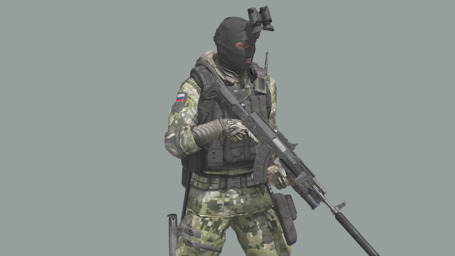
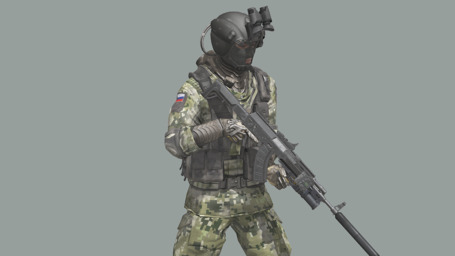
Reworked CSAT russian units loadouts

diff --git a/MU_RU/UnitsConfig.hpp b/MU_RU/UnitsConfig.hpp
@@ -8,7 +8,7 @@
 		vehicleClass = "MU_RU_O";
 		editorSubcategory = "MU_EdSubcat_Personnel_RU";
 		editorPreview="\A3\EditorPreviews_F\Data\CfgVehicles\Default\Man.jpg";
-		identityTypes[] = {"LanguagePER_F", "Head_Greek", "G_IRAN_default"};
+		identityTypes[] = {"LanguageRUS_F","Head_Russian","Head_Euro","Head_Enoch","Head_Asian","G_RUS_SF"};
 		icon = "iconMan";
 		role = "Rifleman";
 		cost = 100000;
@@ -17,16 +17,14 @@
 		camouflage = 0.6;
 		nakedUniform = "U_BasicBody";
 		uniformClass = "U_MU_O_CombatUniform_RUcamo";
-		hiddenSelections[] = {"Camo1","Camo2"};
-		hiddenSelectionsTextures[] = {"\A3\Characters_F\OPFOR\Data\clothing_rus_co.paa","\A3\Characters_F\OPFOR\Data\tech_CO.paa"};
 	};
 	class O_MU_RUSP_R_F : O_MU_RUSP_base_F
 	{
 		scope = 2;
 		scopeCurator = 2;
 		displayName = "$STR_A3_CfgVehicles_B_Soldier_F0";
-		linkedItems[] = {"V_PlateCarrier2_blk", "G_Balaclava_blk", "NVGoggles_OPFOR", "ItemMap", "ItemCompass", "ItemWatch", "ItemRadio"};
-		respawnLinkedItems[] = {"V_PlateCarrier2_blk", "G_Balaclava_blk", "NVGoggles_OPFOR", "ItemMap", "ItemCompass", "ItemWatch", "ItemRadio"};
+		linkedItems[] = {"V_MU_HarnessO_blk", "H_MU_HelmetO_blk", "G_Balaclava_blk", "NVGoggles_OPFOR", "ItemMap", "ItemCompass", "ItemWatch", "ItemRadio"};
+		respawnLinkedItems[] = {"V_MU_HarnessO_blk", "H_MU_HelmetO_blk", "G_Balaclava_blk", "NVGoggles_OPFOR", "ItemMap", "ItemCompass", "ItemWatch", "ItemRadio"};
 		weapons[] = {"arifle_AK12_ACO_pointer_snds_MU", "hgun_Rook40_snds_F", "Throw", "Put"};
 		respawnweapons[] = {"arifle_AK12_ACO_pointer_snds_MU", "hgun_Rook40_snds_F", "Throw", "Put"};
 		magazines[] = {"30Rnd_762x39_AK12_Mag_F", "30Rnd_762x39_AK12_Mag_F", "30Rnd_762x39_AK12_Mag_F", "30Rnd_762x39_AK12_Mag_F", "30Rnd_762x39_AK12_Mag_F", "30Rnd_762x39_AK12_Mag_F", "30Rnd_762x39_AK12_Mag_F", "30Rnd_762x39_AK12_Mag_F", "30Rnd_762x39_AK12_Mag_F", "16Rnd_9x21_Mag", "16Rnd_9x21_Mag", "16Rnd_9x21_Mag", "HandGrenade", "HandGrenade", "SmokeShell", "SmokeShellRed", "Chemlight_red", "Chemlight_red"};
@@ -38,8 +36,8 @@
 		scope = 2;
 		scopeCurator = 2;
 		displayName = $STR_MU_units_RUSP_RN;
-		linkedItems[] = {"V_PlateCarrier2_blk", "G_Balaclava_blk", "NVGoggles_OPFOR", "ItemMap", "ItemCompass", "ItemWatch", "ItemRadio"};
-		respawnLinkedItems[] = {"V_PlateCarrier2_blk", "G_Balaclava_blk", "NVGoggles_OPFOR", "ItemMap", "ItemCompass", "ItemWatch", "ItemRadio"};
+		linkedItems[] = {"V_MU_HarnessO_blk", "G_Balaclava_blk", "NVGoggles_OPFOR", "ItemMap", "ItemCompass", "ItemWatch", "ItemRadio"};
+		respawnLinkedItems[] = {"V_MU_HarnessO_blk", "G_Balaclava_blk", "NVGoggles_OPFOR", "ItemMap", "ItemCompass", "ItemWatch", "ItemRadio"};
 		weapons[] = {"arifle_AK12_Nstalker_pointer_snds_MU", "hgun_Rook40_snds_F", "Throw", "Put"};
 		respawnweapons[] = {"arifle_AK12_Nstalker_pointer_snds_MU", "hgun_Rook40_snds_F", "Throw", "Put"};
 		magazines[] = {"30Rnd_762x39_AK12_Mag_F", "30Rnd_762x39_AK12_Mag_F", "30Rnd_762x39_AK12_Mag_F", "30Rnd_762x39_AK12_Mag_F", "30Rnd_762x39_AK12_Mag_F", "30Rnd_762x39_AK12_Mag_F", "30Rnd_762x39_AK12_Mag_F", "30Rnd_762x39_AK12_Mag_F", "30Rnd_762x39_AK12_Mag_F", "16Rnd_9x21_Mag", "16Rnd_9x21_Mag", "16Rnd_9x21_Mag", "HandGrenade", "HandGrenade", "SmokeShell", "SmokeShellRed", "Chemlight_red", "Chemlight_red"};
@@ -53,8 +51,8 @@
 		displayName = "$STR_B_Soldier_TL_F0";
 		icon = "iconManLeader";
 		cost = 250000;
-		linkedItems[] = {"V_PlateCarrier2_blk", "G_Bandanna_blk", "H_Watchcap_blk", "NVGoggles_OPFOR", "ItemGPS", "ItemMap", "ItemCompass", "ItemWatch", "ItemRadio"};
-		respawnLinkedItems[] = {"V_PlateCarrier2_blk", "G_Bandanna_blk", "H_Watchcap_blk", "NVGoggles_OPFOR", "ItemGPS", "ItemMap", "ItemCompass", "ItemWatch", "ItemRadio"};
+		linkedItems[] = {"V_MU_HarnessO_blk", "G_Bandanna_blk", "H_Watchcap_blk", "NVGoggles_OPFOR", "ItemGPS", "ItemMap", "ItemCompass", "ItemWatch", "ItemRadio"};
+		respawnLinkedItems[] = {"V_MU_HarnessO_blk", "G_Bandanna_blk", "H_Watchcap_blk", "NVGoggles_OPFOR", "ItemGPS", "ItemMap", "ItemCompass", "ItemWatch", "ItemRadio"};
 		weapons[] = {"arifle_AK12_ARCO_pointer_snds_MU", "RangeFinder", "hgun_Rook40_snds_F", "Throw", "Put"};
 		respawnweapons[] = {"arifle_AK12_ARCO_pointer_snds_MU", "RangeFinder", "hgun_Rook40_snds_F", "Throw", "Put"};
 		magazines[] = {"30Rnd_762x39_AK12_Mag_F", "30Rnd_762x39_AK12_Mag_F", "30Rnd_762x39_AK12_Mag_F", "30Rnd_762x39_AK12_Mag_F", "30Rnd_762x39_AK12_Mag_F", "30Rnd_762x39_AK12_Mag_F", "30Rnd_762x39_AK12_Mag_F", "30Rnd_762x39_AK12_Mag_F", "30Rnd_762x39_AK12_Mag_F", "16Rnd_9x21_Mag", "16Rnd_9x21_Mag", "16Rnd_9x21_Mag", "HandGrenade", "SmokeShell", "SmokeShellRed", "SmokeShellBlue", "Chemlight_red", "Chemlight_red"};
@@ -68,13 +66,12 @@
 		displayName = "$STR_B_Soldier_GL_F0";
 		role = "Grenadier";
 		cost = 200000;
-		backpack = "B_MU_RUSP_TacticalPack_blk_GL";
-		linkedItems[] = {"V_PlateCarrier2_blk", "G_Balaclava_blk", "NVGoggles_OPFOR", "ItemMap", "ItemCompass", "ItemWatch", "ItemRadio"};
-		respawnLinkedItems[] = {"V_PlateCarrier2_blk", "G_Balaclava_blk", "NVGoggles_OPFOR", "ItemMap", "ItemCompass", "ItemWatch", "ItemRadio"};
+		linkedItems[] = {"V_MU_HarnessO_blk", "H_MU_HelmetO_blk", "G_Balaclava_blk", "NVGoggles_OPFOR", "ItemMap", "ItemCompass", "ItemWatch", "ItemRadio"};
+		respawnLinkedItems[] = {"V_MU_HarnessO_blk", "H_MU_HelmetO_blk", "G_Balaclava_blk", "NVGoggles_OPFOR", "ItemMap", "ItemCompass", "ItemWatch", "ItemRadio"};
 		weapons[] = {"arifle_AK12_GL_ACO_pointer_snds_MU", "hgun_Rook40_snds_F", "Throw", "Put"};
 		respawnweapons[] = {"arifle_AK12_GL_ACO_pointer_snds_MU", "hgun_Rook40_snds_F", "Throw", "Put"};
-		magazines[] = {"30Rnd_762x39_AK12_Mag_F", "30Rnd_762x39_AK12_Mag_F", "30Rnd_762x39_AK12_Mag_F", "30Rnd_762x39_AK12_Mag_F", "30Rnd_762x39_AK12_Mag_F", "30Rnd_762x39_AK12_Mag_F", "30Rnd_762x39_AK12_Mag_F", "1Rnd_HE_Grenade_shell", "1Rnd_HE_Grenade_shell", "1Rnd_HE_Grenade_shell", "1Rnd_HE_Grenade_shell", "1Rnd_HE_Grenade_shell", "1Rnd_HE_Grenade_shell", "16Rnd_9x21_Mag", "16Rnd_9x21_Mag", "16Rnd_9x21_Mag", "HandGrenade", "HandGrenade", "SmokeShell", "SmokeShellRed", "Chemlight_red"};
-		Respawnmagazines[] = {"30Rnd_762x39_AK12_Mag_F", "30Rnd_762x39_AK12_Mag_F", "30Rnd_762x39_AK12_Mag_F", "30Rnd_762x39_AK12_Mag_F", "30Rnd_762x39_AK12_Mag_F", "30Rnd_762x39_AK12_Mag_F", "30Rnd_762x39_AK12_Mag_F", "1Rnd_HE_Grenade_shell", "1Rnd_HE_Grenade_shell", "1Rnd_HE_Grenade_shell", "1Rnd_HE_Grenade_shell", "1Rnd_HE_Grenade_shell", "1Rnd_HE_Grenade_shell", "16Rnd_9x21_Mag", "16Rnd_9x21_Mag", "16Rnd_9x21_Mag", "HandGrenade", "HandGrenade", "SmokeShell", "SmokeShellRed", "Chemlight_red"};
+		magazines[] = {"30Rnd_762x39_AK12_Mag_F", "30Rnd_762x39_AK12_Mag_F", "30Rnd_762x39_AK12_Mag_F", "30Rnd_762x39_AK12_Mag_F", "30Rnd_762x39_AK12_Mag_F", "30Rnd_762x39_AK12_Mag_F", "30Rnd_762x39_AK12_Mag_F", "30Rnd_762x39_AK12_Mag_F", "1Rnd_HE_Grenade_shell", "1Rnd_HE_Grenade_shell", "1Rnd_HE_Grenade_shell", "1Rnd_HE_Grenade_shell", "1Rnd_HE_Grenade_shell", "1Rnd_HE_Grenade_shell", "1Rnd_HE_Grenade_shell", "1Rnd_HE_Grenade_shell", "1Rnd_HE_Grenade_shell", "1Rnd_HE_Grenade_shell", "UGL_FlareRed_F", "UGL_FlareRed_F", "UGL_FlareCIR_F", "UGL_FlareCIR_F", "1Rnd_SmokePurple_Grenade_shell", "1Rnd_SmokePurple_Grenade_shell", "1Rnd_SmokeRed_Grenade_shell", "1Rnd_SmokeRed_Grenade_shell", "16Rnd_9x21_Mag", "16Rnd_9x21_Mag", "16Rnd_9x21_Mag", "HandGrenade", "HandGrenade", "SmokeShell", "SmokeShellRed", "Chemlight_red"};
+		Respawnmagazines[] = {"30Rnd_762x39_AK12_Mag_F", "30Rnd_762x39_AK12_Mag_F", "30Rnd_762x39_AK12_Mag_F", "30Rnd_762x39_AK12_Mag_F", "30Rnd_762x39_AK12_Mag_F", "30Rnd_762x39_AK12_Mag_F", "30Rnd_762x39_AK12_Mag_F", "30Rnd_762x39_AK12_Mag_F", "1Rnd_HE_Grenade_shell", "1Rnd_HE_Grenade_shell", "1Rnd_HE_Grenade_shell", "1Rnd_HE_Grenade_shell", "1Rnd_HE_Grenade_shell", "1Rnd_HE_Grenade_shell", "1Rnd_HE_Grenade_shell", "1Rnd_HE_Grenade_shell", "1Rnd_HE_Grenade_shell", "1Rnd_HE_Grenade_shell", "UGL_FlareRed_F", "UGL_FlareRed_F", "UGL_FlareCIR_F", "UGL_FlareCIR_F", "1Rnd_SmokePurple_Grenade_shell", "1Rnd_SmokePurple_Grenade_shell", "1Rnd_SmokeRed_Grenade_shell", "1Rnd_SmokeRed_Grenade_shell", "16Rnd_9x21_Mag", "16Rnd_9x21_Mag", "16Rnd_9x21_Mag", "HandGrenade", "HandGrenade", "SmokeShell", "SmokeShellRed", "Chemlight_red"};
 		MU_PREVIEW(O_MU_RUSP_GL_F);
 	};
 	class O_MU_RUSP_medic_F : O_MU_RUSP_base_F
@@ -87,8 +84,8 @@
 		picture = "pictureHeal";
 		attendant = 1;
 		backpack = "B_MU_RUSP_TacticalPack_blk_medic";
-		linkedItems[] = {"V_PlateCarrier2_blk", "H_HelmetSpecO_blk", "G_Balaclava_blk", "NVGoggles_OPFOR", "ItemMap", "ItemCompass", "ItemWatch", "ItemRadio"};
-		respawnLinkedItems[] = {"V_PlateCarrier2_blk", "H_HelmetSpecO_blk", "G_Balaclava_blk", "NVGoggles_OPFOR", "ItemMap", "ItemCompass", "ItemWatch", "ItemRadio"};
+		linkedItems[] = {"V_Chestrig_blk", "H_HelmetSpecO_blk", "G_Balaclava_blk", "NVGoggles_OPFOR", "ItemMap", "ItemCompass", "ItemWatch", "ItemRadio"};
+		respawnLinkedItems[] = {"V_Chestrig_blk", "H_HelmetSpecO_blk", "G_Balaclava_blk", "NVGoggles_OPFOR", "ItemMap", "ItemCompass", "ItemWatch", "ItemRadio"};
 		weapons[] = {"arifle_AK12_ACO_pointer_snds_MU", "hgun_Rook40_snds_F", "Throw", "Put"};
 		respawnweapons[] = {"arifle_AK12_ACO_pointer_snds_MU", "hgun_Rook40_snds_F", "Throw", "Put"};
 		magazines[] = {"30Rnd_762x39_AK12_Mag_F", "30Rnd_762x39_AK12_Mag_F", "30Rnd_762x39_AK12_Mag_F", "30Rnd_762x39_AK12_Mag_F", "30Rnd_762x39_AK12_Mag_F", "30Rnd_762x39_AK12_Mag_F", "30Rnd_762x39_AK12_Mag_F", "16Rnd_9x21_Mag", "16Rnd_9x21_Mag", "16Rnd_9x21_Mag", "HandGrenade", "SmokeShell", "SmokeShell", "SmokeShellRed", "Chemlight_red", "Chemlight_red"};
@@ -107,8 +104,8 @@
 		engineer = 1;
 		detectSkill = 31;
 		backpack = "B_MU_RUSP_TacticalPack_blk_eng";
-		linkedItems[] = {"V_PlateCarrier2_blk", "H_Bandanna_khk_hs", "NVGoggles_OPFOR", "ItemMap", "ItemCompass", "ItemWatch", "ItemRadio"};
-		respawnLinkedItems[] = {"V_PlateCarrier2_blk", "H_Bandanna_khk_hs", "NVGoggles_OPFOR", "ItemMap", "ItemCompass", "ItemWatch", "ItemRadio"};
+		linkedItems[] = {"V_Chestrig_rgr", "H_Bandanna_khk_hs", "NVGoggles_OPFOR", "ItemMap", "ItemCompass", "ItemWatch", "ItemRadio"};
+		respawnLinkedItems[] = {"V_Chestrig_rgr", "H_Bandanna_khk_hs", "NVGoggles_OPFOR", "ItemMap", "ItemCompass", "ItemWatch", "ItemRadio"};
 		weapons[] = {"arifle_AK12_ACO_pointer_snds_MU", "hgun_Rook40_snds_F", "Throw", "Put"};
 		respawnweapons[] = {"arifle_AK12_ACO_pointer_snds_MU", "hgun_Rook40_snds_F", "Throw", "Put"};
 		magazines[] = {"30Rnd_762x39_AK12_Mag_F","30Rnd_762x39_AK12_Mag_F","30Rnd_762x39_AK12_Mag_F","30Rnd_762x39_AK12_Mag_F","30Rnd_762x39_AK12_Mag_F","30Rnd_762x39_AK12_Mag_F","30Rnd_762x39_AK12_Mag_F", "30Rnd_9x21_Mag", "16Rnd_9x21_Mag", "16Rnd_9x21_Mag", "16Rnd_9x21_Mag", "HandGrenade", "HandGrenade", "SmokeShell", "SmokeShellRed", "Chemlight_red", "Chemlight_red"};
@@ -126,8 +123,8 @@
 		primaryAmmoCoef = 0.2;
 		secondaryAmmoCoef = 0.05;
 		handgunAmmoCoef = 0.1;
-		linkedItems[] = {"V_Chestrig_blk", "G_Balaclava_blk", "NVGoggles_OPFOR", "ItemGPS", "ItemMap", "ItemCompass", "ItemWatch", "ItemRadio"};
-		respawnLinkedItems[] = {"V_Chestrig_blk", "G_Balaclava_blk", "NVGoggles_OPFOR", "ItemGPS", "ItemMap", "ItemCompass", "ItemWatch", "ItemRadio"};
+		linkedItems[] = {"V_MU_HarnessO_blk", "G_Balaclava_blk", "NVGoggles_OPFOR", "ItemGPS", "ItemMap", "ItemCompass", "ItemWatch", "ItemRadio"};
+		respawnLinkedItems[] = {"V_MU_HarnessO_blk", "G_Balaclava_blk", "NVGoggles_OPFOR", "ItemGPS", "ItemMap", "ItemCompass", "ItemWatch", "ItemRadio"};
 		weapons[] = {"srifle_GM6_DMS_MU_F", "RangeFinder", "hgun_Rook40_snds_F", "Throw", "Put"};
 		respawnweapons[] = {"srifle_GM6_DMS_MU_F", "RangeFinder", "hgun_Rook40_snds_F", "Throw", "Put"};
 		magazines[] = {"5Rnd_127x108_Mag", "5Rnd_127x108_Mag", "5Rnd_127x108_Mag", "5Rnd_127x108_Mag", "5Rnd_127x108_Mag", "5Rnd_127x108_APDS_Mag", "5Rnd_127x108_APDS_Mag", "16Rnd_9x21_Mag", "16Rnd_9x21_Mag", "16Rnd_9x21_Mag", "SmokeShell", "SmokeShellRed", "Chemlight_red"};
@@ -149,8 +146,8 @@
 		respawnLinkedItems[] = {"V_Chestrig_rgr", "G_Balaclava_blk", "NVGoggles_OPFOR", "ItemMap", "ItemCompass", "ItemWatch", "ItemRadio"};
 		weapons[] = {"arifle_AK12_ACO_pointer_snds_MU", "launch_O_Vorona_green_F", "hgun_Rook40_snds_F", "Throw", "Put"};
 		respawnweapons[] = {"arifle_AK12_ACO_pointer_snds_MU", "launch_O_Vorona_green_F", "hgun_Rook40_snds_F", "Throw", "Put"};
-		magazines[] = {"30Rnd_762x39_AK12_Mag_F", "30Rnd_762x39_AK12_Mag_F", "30Rnd_762x39_AK12_Mag_F", "30Rnd_762x39_AK12_Mag_F", "30Rnd_762x39_AK12_Mag_F", "Vorona_HEAT", "16Rnd_9x21_Mag", "16Rnd_9x21_Mag", "16Rnd_9x21_Mag", "HandGrenade", "HandGrenade", "SmokeShell", "SmokeShellRed", "Chemlight_red", "Chemlight_red"};
-		Respawnmagazines[] = {"30Rnd_762x39_AK12_Mag_F", "30Rnd_762x39_AK12_Mag_F", "30Rnd_762x39_AK12_Mag_F", "30Rnd_762x39_AK12_Mag_F", "30Rnd_762x39_AK12_Mag_F", "Vorona_HEAT", "16Rnd_9x21_Mag", "16Rnd_9x21_Mag", "16Rnd_9x21_Mag", "HandGrenade", "HandGrenade", "SmokeShell", "SmokeShellRed", "Chemlight_red", "Chemlight_red"};
+		magazines[] = {"30Rnd_762x39_AK12_Mag_F", "30Rnd_762x39_AK12_Mag_F", "30Rnd_762x39_AK12_Mag_F", "30Rnd_762x39_AK12_Mag_F", "30Rnd_762x39_AK12_Mag_F", "Vorona_HEAT", "16Rnd_9x21_Mag", "16Rnd_9x21_Mag", "16Rnd_9x21_Mag", "HandGrenade", "SmokeShell", "SmokeShellRed", "Chemlight_red", "Chemlight_red"};
+		Respawnmagazines[] = {"30Rnd_762x39_AK12_Mag_F", "30Rnd_762x39_AK12_Mag_F", "30Rnd_762x39_AK12_Mag_F", "30Rnd_762x39_AK12_Mag_F", "30Rnd_762x39_AK12_Mag_F", "Vorona_HEAT", "16Rnd_9x21_Mag", "16Rnd_9x21_Mag", "16Rnd_9x21_Mag", "HandGrenade", "SmokeShell", "SmokeShellRed", "Chemlight_red", "Chemlight_red"};
 		MU_PREVIEW(O_MU_RUSP_AT_F);
 	};
 	class O_MU_RUSP_AR_F : O_MU_RUSP_base_F
@@ -161,8 +158,8 @@
 		icon = "iconManMG";
 		role = "MachineGunner";
 		cost = 220000;
-		linkedItems[] = {"V_PlateCarrier2_blk", "H_HelmetSpecO_blk", "G_Balaclava_blk", "NVGoggles_OPFOR", "ItemMap", "ItemCompass", "ItemWatch", "ItemRadio"};
-		respawnLinkedItems[] = {"V_PlateCarrier2_blk", "H_HelmetSpecO_blk", "G_Balaclava_blk", "NVGoggles_OPFOR", "ItemMap", "ItemCompass", "ItemWatch", "ItemRadio"};
+		linkedItems[] = {"V_MU_HarnessO_blk", "H_HelmetSpecO_blk", "G_Balaclava_blk", "NVGoggles_OPFOR", "ItemMap", "ItemCompass", "ItemWatch", "ItemRadio"};
+		respawnLinkedItems[] = {"V_MU_HarnessO_blk", "H_HelmetSpecO_blk", "G_Balaclava_blk", "NVGoggles_OPFOR", "ItemMap", "ItemCompass", "ItemWatch", "ItemRadio"};
 		weapons[] = {"arifle_RPK12_ARCO_pointer_snds_MU", "hgun_Rook40_snds_F", "Throw", "Put"};
 		respawnweapons[] = {"arifle_RPK12_ARCO_pointer_snds_MU", "hgun_Rook40_snds_F", "Throw", "Put"};
 		magazines[] = {"75rnd_762x39_AK12_Mag_F","75rnd_762x39_AK12_Mag_F","75rnd_762x39_AK12_Mag_F","75rnd_762x39_AK12_Mag_F","75rnd_762x39_AK12_Mag_F","75rnd_762x39_AK12_Mag_F","75rnd_762x39_AK12_Mag_F", "16Rnd_9x21_Mag", "16Rnd_9x21_Mag", "16Rnd_9x21_Mag", "HandGrenade", "HandGrenade", "SmokeShell", "Chemlight_red"};
@@ -175,9 +172,9 @@
 		scopeCurator = 2;
 		displayName = "$STR_B_Soldier_A_F0";
 		role = "Rifleman";
-		backpack = "B_MU_RUSP_TacticalPack_blk_A";
-		linkedItems[] = {"V_PlateCarrier2_blk", "G_Balaclava_blk", "NVGoggles_OPFOR", "ItemMap", "ItemCompass", "ItemWatch", "ItemRadio"};
-		respawnLinkedItems[] = {"V_PlateCarrier2_blk", "G_Balaclava_blk", "NVGoggles_OPFOR", "ItemMap", "ItemCompass", "ItemWatch", "ItemRadio"};
+		backpack = "B_MU_RUSP_Carryall_blk_A";
+		linkedItems[] = {"V_Chestrig_blk", "G_Balaclava_blk", "NVGoggles_OPFOR", "ItemMap", "ItemCompass", "ItemWatch", "ItemRadio"};
+		respawnLinkedItems[] = {"V_Chestrig_blk", "G_Balaclava_blk", "NVGoggles_OPFOR", "ItemMap", "ItemCompass", "ItemWatch", "ItemRadio"};
 		weapons[] = {"arifle_AK12_ACO_pointer_snds_MU", "hgun_Rook40_snds_F", "Throw", "Put"};
 		respawnweapons[] = {"arifle_AK12_ACO_pointer_snds_MU", "hgun_Rook40_snds_F", "Throw", "Put"};
 		magazines[] = {"30Rnd_762x39_AK12_Mag_F", "30Rnd_762x39_AK12_Mag_F", "30Rnd_762x39_AK12_Mag_F", "30Rnd_762x39_AK12_Mag_F", "30Rnd_762x39_AK12_Mag_F", "30Rnd_762x39_AK12_Mag_F", "30Rnd_762x39_AK12_Mag_F", "30Rnd_762x39_AK12_Mag_F", "30Rnd_762x39_AK12_Mag_F", "16Rnd_9x21_Mag", "16Rnd_9x21_Mag", "16Rnd_9x21_Mag", "HandGrenade", "HandGrenade", "SmokeShell", "SmokeShellRed", "Chemlight_red", "Chemlight_red"};
@@ -191,8 +188,8 @@
 		displayName = "$STR_B_soldier_M_F0";
 		role = "Marksman";
 		cost = 250000;
-		linkedItems[] = {"V_PlateCarrier2_blk", "G_Balaclava_blk", "NVGoggles_OPFOR", "ItemMap", "ItemCompass", "ItemWatch", "ItemRadio"};
-		respawnLinkedItems[] = {"V_PlateCarrier2_blk", "G_Balaclava_blk", "NVGoggles_OPFOR", "ItemMap", "ItemCompass", "ItemWatch", "ItemRadio"};
+		linkedItems[] = {"V_MU_HarnessO_blk", "G_Balaclava_blk", "NVGoggles_OPFOR", "ItemMap", "ItemCompass", "ItemWatch", "ItemRadio"};
+		respawnLinkedItems[] = {"V_MU_HarnessO_blk", "G_Balaclava_blk", "NVGoggles_OPFOR", "ItemMap", "ItemCompass", "ItemWatch", "ItemRadio"};
 		weapons[] = {"srifle_DMR_04_Nstalker_pointer_BI_MU_F", "hgun_Rook40_snds_F", "Throw", "Put"};
 		respawnweapons[] = {"srifle_DMR_04_Nstalker_pointer_BI_MU_F", "hgun_Rook40_snds_F", "Throw", "Put"};
 		magazines[] = {"10Rnd_127x54_Mag", "10Rnd_127x54_Mag", "10Rnd_127x54_Mag", "10Rnd_127x54_Mag", "10Rnd_127x54_Mag", "10Rnd_127x54_Mag", "10Rnd_127x54_Mag", "10Rnd_127x54_Mag", "16Rnd_9x21_Mag", "16Rnd_9x21_Mag", "16Rnd_9x21_Mag", "SmokeShell", "SmokeShellRed", "Chemlight_red"};

diff --git a/MU_RU/BagsConfig.hpp b/MU_RU/BagsConfig.hpp
@@ -5,11 +5,6 @@
 		scopeCurator = 1;
 		class TransportMagazines
 		{
-			class _xx_30Rnd_762x39_AK12_Mag_Tracer_F
-			{
-				magazine = "30Rnd_762x39_AK12_Mag_Tracer_F";
-				count = 2;
-			};
 			class _xx_30Rnd_762x39_AK12_Mag_F
 			{
 				magazine = "30Rnd_762x39_AK12_Mag_F";
@@ -18,7 +13,7 @@
 			class _xx_1Rnd_HE_Grenade_shell
 			{
 				magazine = "1Rnd_HE_Grenade_shell";
-				count = 10;
+				count = 6;
 			};
 			class _xx_UGL_FlareRed_F
 			{
@@ -38,11 +33,6 @@
 			class _xx_1Rnd_SmokeRed_Grenade_shell
 			{
 				magazine = "1Rnd_SmokeRed_Grenade_shell";
-				count = 2;
-			};
-			class _xx_1Rnd_SmokeBlue_Grenade_shell
-			{
-				magazine = "1Rnd_SmokeBlue_Grenade_shell";
 				count = 2;
 			};
 		};
@@ -101,7 +91,8 @@
 			};
 		};
 	};
-	class B_MU_RUSP_TacticalPack_blk_A : B_TacticalPack_blk
+	class B_MU_Carryall_blk;
+	class B_MU_RUSP_Carryall_blk_A : B_MU_Carryall_blk
 	{
 		scope = 1;
 		scopeCurator = 1;
@@ -118,16 +109,16 @@
 			class _xx_30Rnd_762x39_AK12_Mag_F
 			{
 				magazine = "30Rnd_762x39_AK12_Mag_F";
-				count = 4;
+				count = 2;
 			};
 			class _xx_30Rnd_762x39_AK12_Mag_Tracer_F
 			{
 				magazine = "30Rnd_762x39_AK12_Mag_Tracer_F";
 				count = 2;
 			};
-			class _xx_100Rnd_580x42_Mag_F
+			class _xx_75rnd_762x39_AK12_Mag_F
 			{
-				magazine = "100Rnd_580x42_Mag_F";
+				magazine = "75rnd_762x39_AK12_Mag_F";
 				count = 2;
 			};
 			class _xx_HandGrenade
@@ -152,8 +143,9 @@
 			};
 		};
 	};
+	class B_MU_RUSP_TacticalPack_blk_A: B_MU_RUSP_Carryall_blk_A {}; //legacy
 	class B_AssaultPack_rgr;
-	class B_MU_RUSP_AssaultPack_rgr_AT : B_AssaultPack_rgr // Not used anymore
+	class B_MU_RUSP_AssaultPack_rgr_AT : B_AssaultPack_rgr //legacy
 	{
 		scope = 1;
 		scopeCurator = 1;

diff --git a/MU_RU/config.cpp b/MU_RU/config.cpp
@@ -17,12 +17,12 @@ class CfgPatches
 			"O_MU_RUSP_A_F",
 			"O_MU_RUSP_M_F"
 		};
-		weapons[] = {"U_MU_O_CombatUniform_RUcamo"};
+		weapons[] = {};
 		requiredVersion = 0.1;
-		requiredAddons[] = {"MU_core", "A3_Characters_F", "A3_Weapons_F"};
+		requiredAddons[] = {"MU_core","MU_asset","A3_Characters_F"};
 	};
 };
-#define MU_PREVIEW(x) 	editorPreview = "\MU\MU_RU\data\preview\##x##.jpg"
+#define MU_PREVIEW(x) 	editorPreview = \MU\MU_RU\data\preview\##x##.jpg
 
 class CfgVehicleClasses
 {
@@ -37,26 +37,6 @@ class CfgEditorSubcategories
 	class MU_EdSubcat_Personnel_RU
 	{
 		displayName = $STR_MU_units_Edensubcat_RU;
-	};
-};
-
-class cfgWeapons {
-	class Uniform_Base;
-	class UniformItem;
-	class U_MU_O_CombatUniform_RUcamo : Uniform_Base {
-		author = "Sparfell";
-		dlc = "Missing_Units";
-		scope = 2;
-		scopeCurator = 2;
-		displayName = $STR_MU_uniform_RUSP_rucamo;
-		picture = "\MU\MU_RU\Data\Mu_icon_u_oi_combatuniform_rucamo_ca.paa";
-		model = "\A3\Characters_F\Common\Suitpacks\suitpack_universal_F.p3d";
-		class ItemInfo: UniformItem {
-			uniformModel = "-";
-			uniformClass = "O_MU_RUSP_R_F";
-			containerClass = "Supply40";
-			mass = 30;
-		};
 	};
 };
 
